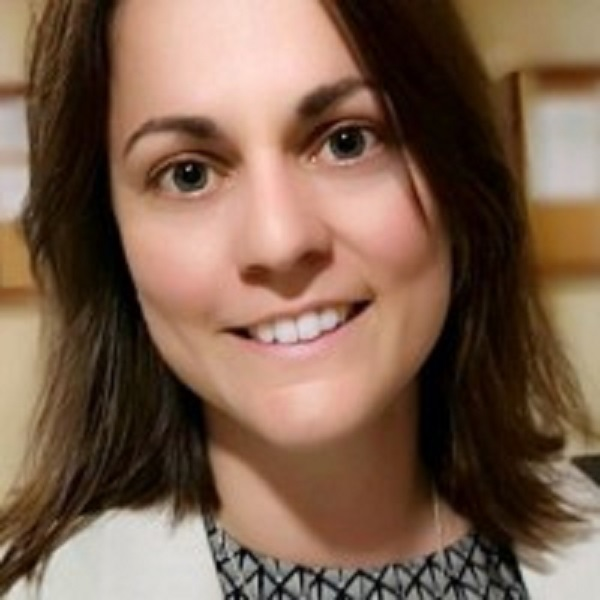
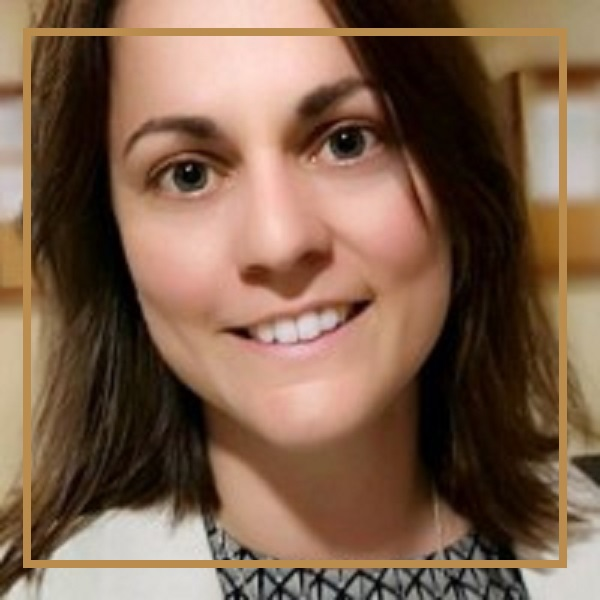
apariencia cambio

Changed region(s): [[0.03, 0.03, 0.96, 0.96]]

diff --git a/index.html b/index.html
@@ -121,7 +121,7 @@
                   <span class="progressText">Strategy</span>
                   <div class="single-progress-txt">
                     <div class="progress ">
-                      <div class="progress-bar" role="progressbar" aria-valuenow="90" aria-valuemin="10" aria-valuemax="100" style="">
+                      <div class="progress-bar" role="progressbar" aria-valuenow="95" aria-valuemin="10" aria-valuemax="100" style="">
                           
                       </div>
                     </div>
@@ -132,18 +132,18 @@
                   <span class="progressText">Project Management</span>
                   <div class="single-progress-txt">
                     <div class="progress ">
-                       <div class="progress-bar" role="progressbar" aria-valuenow="85" aria-valuemin="10" aria-valuemax="100" style="">
+                       <div class="progress-bar" role="progressbar" aria-valuenow="90" aria-valuemin="10" aria-valuemax="100" style="">
                           
                        </div>
                     </div>
-                    <h3>85%</h3>	
+                    <h3>90%</h3>	
                   </div>
                 </div><!-- /.barWrapper -->
                 <div class="barWrapper">
                   <span class="progressText">Online Reputation Management</span>
                   <div class="single-progress-txt">
                     <div class="progress ">
-                       <div class="progress-bar" role="progressbar" aria-valuenow="97" aria-valuemin="10" aria-valuemax="100" style="">
+                       <div class="progress-bar" role="progressbar" aria-valuenow="90" aria-valuemin="10" aria-valuemax="100" style="">
                          
                        </div>
                     </div>
@@ -154,7 +154,7 @@
                   <span class="progressText">Business Intelligence</span>
                   <div class="single-progress-txt">
                     <div class="progress ">
-                       <div class="progress-bar" role="progressbar" aria-valuenow="90" aria-valuemin="10" aria-valuemax="100" style="">
+                       <div class="progress-bar" role="progressbar" aria-valuenow="75" aria-valuemin="10" aria-valuemax="100" style="">
                           
                        </div>
                     </div>
@@ -169,40 +169,40 @@
                   <span class="progressText"> Business Process Management</span>
                   <div class="single-progress-txt">
                     <div class="progress ">
-                      <div class="progress-bar" role="progressbar" aria-valuenow="90" aria-valuemin="10" aria-valuemax="100" style="">
+                      <div class="progress-bar" role="progressbar" aria-valuenow="85" aria-valuemin="10" aria-valuemax="100" style="">
                         
                       </div>
                     </div>
-                    <h3>80%</h3>	
+                    <h3>85%</h3>	
                   </div>
                 </div><!-- /.barWrapper -->
                 <div class="barWrapper">
                   <span class="progressText">Event Management and Sales</span>
                   <div class="single-progress-txt">
                     <div class="progress ">
-                       <div class="progress-bar" role="progressbar" aria-valuenow="85" aria-valuemin="10" aria-valuemax="100" style="">
+                       <div class="progress-bar" role="progressbar" aria-valuenow="75" aria-valuemin="10" aria-valuemax="100" style="">
                           
-                       </div>
-                    </div>
-                    <h3>70%</h3>	
-                  </div>
-                </div><!-- /.barWrapper -->
-                <div class="barWrapper">
-                  <span class="progressText">Customer Care</span>
-                  <div class="single-progress-txt">
-                    <div class="progress ">
-                       <div class="progress-bar" role="progressbar" aria-valuenow="97" aria-valuemin="10" aria-valuemax="100" style="">
-                         
                        </div>
                     </div>
                     <h3>75%</h3>	
                   </div>
                 </div><!-- /.barWrapper -->
                 <div class="barWrapper">
+                  <span class="progressText">Customer Care</span>
+                  <div class="single-progress-txt">
+                    <div class="progress ">
+                       <div class="progress-bar" role="progressbar" aria-valuenow="85" aria-valuemin="10" aria-valuemax="100" style="">
+                         
+                       </div>
+                    </div>
+                    <h3>85%</h3>	
+                  </div>
+                </div><!-- /.barWrapper -->
+                <div class="barWrapper">
                   <span class="progressText"> Funny internet stuffs</span>
                   <div class="single-progress-txt">
                     <div class="progress ">
-                       <div class="progress-bar" role="progressbar" aria-valuenow="90" aria-valuemin="10" aria-valuemax="100" style="">
+                       <div class="progress-bar" role="progressbar" aria-valuenow="65" aria-valuemin="10" aria-valuemax="100" style="">
                           
                        </div>
                     </div>
